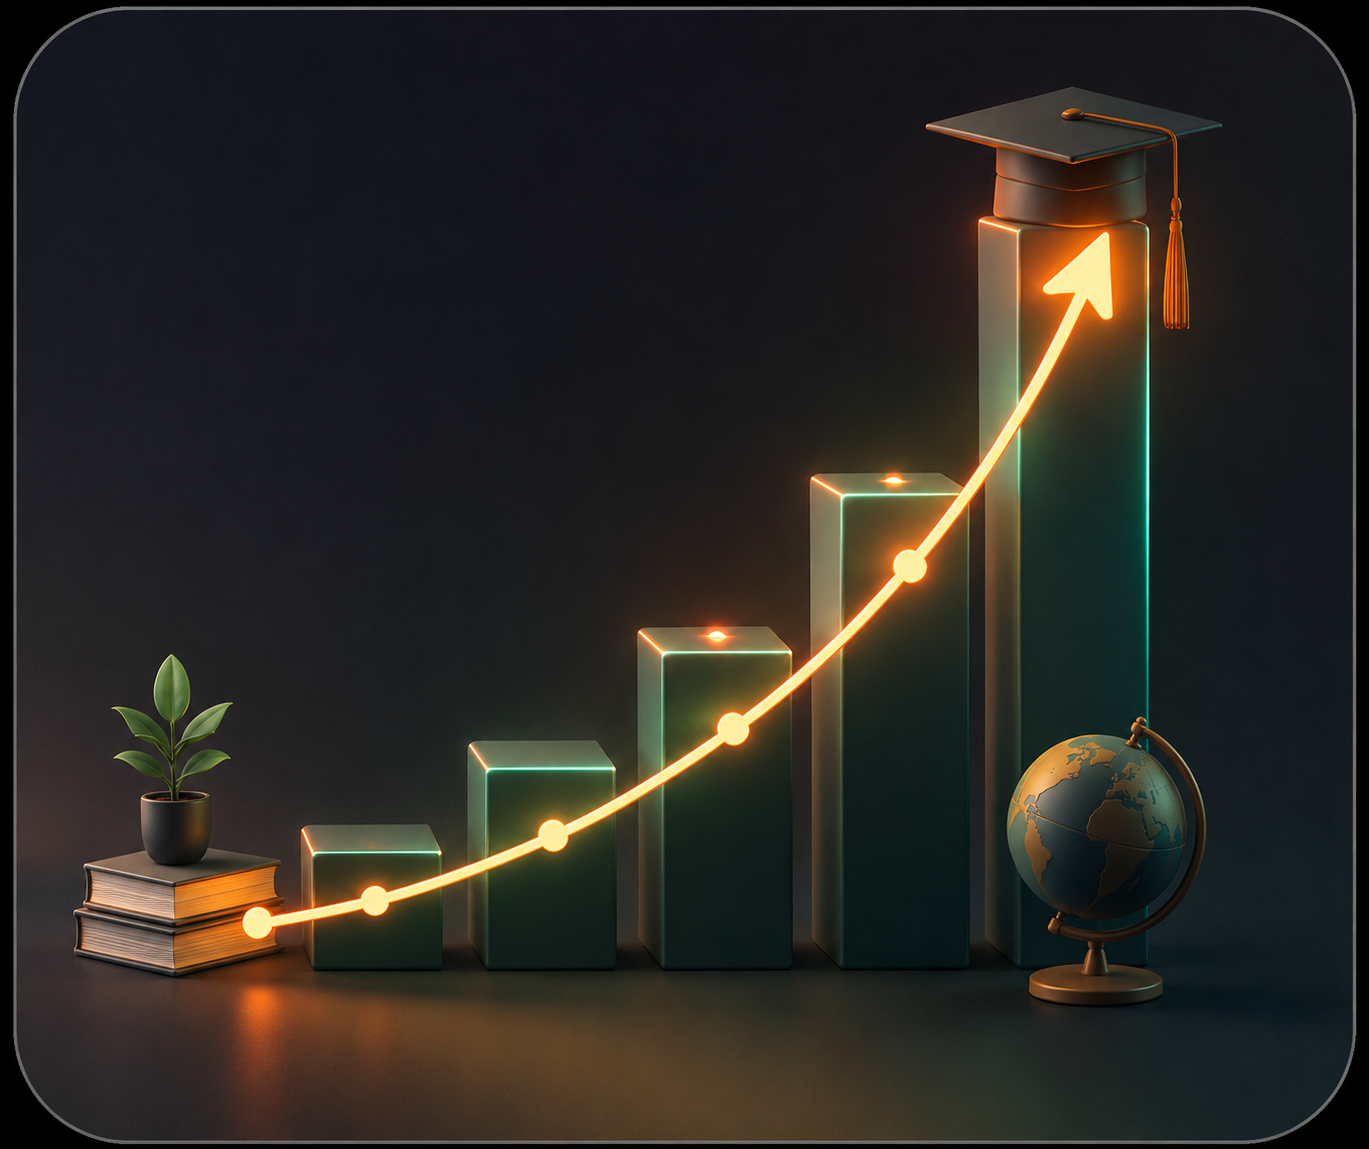
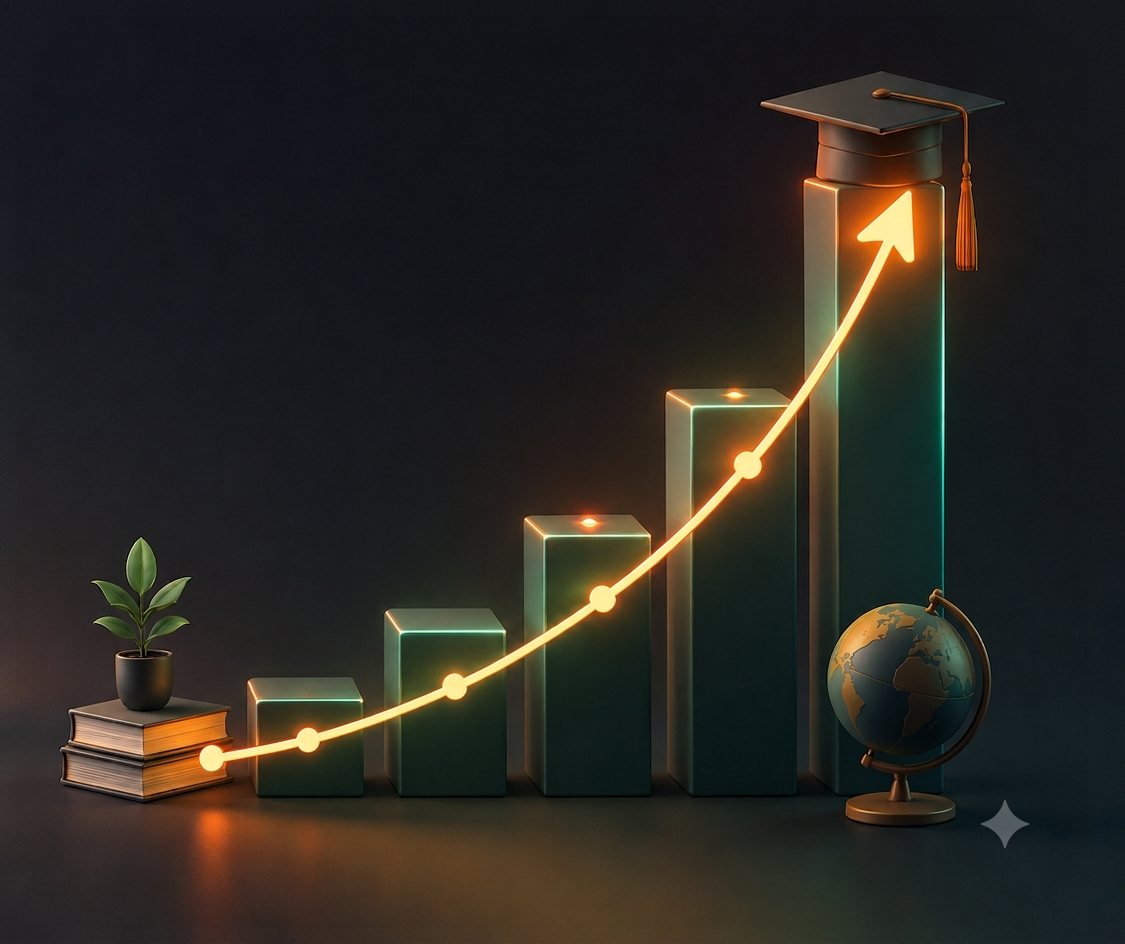
almost complete contact section

diff --git a/frontend/src/features/contact/components/ContactHero.jsx b/frontend/src/features/contact/components/ContactHero.jsx
@@ -5,7 +5,8 @@ import { buttonHoverVariant } from "../../../shared/motion/hover.motion";
 import { floatingCard, noMotion } from "../../../shared/motion/floating.motion";
 import { usePrefersReducedMotion } from "../../../shared/hooks/usePrefersReducedMotion";
 import { resolveIcon } from "../../../shared/utils/icons";
-import TransitionLink from "../../../app/providers/page-transition/TransitionLink"
+import TransitionLink from "../../../app/providers/page-transition/TransitionLink";
+import HeroImg from "../../../assets/images/common/contact.png"
 
 // import contactImg from "../../assets/images/galleryclassroom/1.jpg"
 
@@ -92,23 +93,12 @@ const ContactHero = () => {
         aria-hidden="true"
       >
         {/* Central glass panel */}
-        <div className="relative h-56 w-56 rounded-[2rem] border border-white/40 bg-white/30 shadow-2xl backdrop-blur-xl sm:h-72 sm:w-72 lg:h-80 lg:w-80">
-          <div
-            className="absolute inset-0 rounded-[2rem] opacity-40"
-            style={{
-              
-              background: 
-                "linear-gradient(135deg, #E63946 0%, #F4A261 35%, #2A9D8F 70%, #264653 100%)",
-
-              backgroundSize: "200% 200%",
-              animation: reducedMotion ? "none" : "jamiaHeroGradientShift 6s ease infinite",
-            }}
+        <div className="relative h-56 w-56 overflow-hidden rounded-[2rem] border-4 border-sky-500/35 shadow-2xl backdrop-blur-xl sm:h-72 sm:w-72 lg:h-80 lg:w-80">
+          <img
+            src={HeroImg}
+            alt=""
+            className="absolute inset-0 h-full w-full object-cover"
           />
-          <div className="absolute inset-0 flex items-center justify-center">
-            {BadgeIcon && (
-              <BadgeIcon className="h-20 w-20 text-white drop-shadow-lg sm:h-24 sm:w-24" strokeWidth={1.5} />
-            )}
-          </div>
         </div>
 
         {/* Floating achievement cards */}
@@ -119,8 +109,9 @@ const ContactHero = () => {
               key={card.id}
               variants={reducedMotion ? noMotion : floatingCard(index * 0.6)}
               animate="animate"
-              className={`absolute ${VISUAL_CARD_POSITIONS[index]} flex max-w-[8.5rem] items-center gap-1.5 rounded-2xl border border-white/50 bg-white/70 px-3 py-2 shadow-lg backdrop-blur-md sm:max-w-none sm:gap-2 sm:px-4 sm:py-2.5`}
+              className={`absolute ${VISUAL_CARD_POSITIONS[index]} flex max-w-[8.5rem]  items-center gap-1.5 rounded-2xl  bg-white/70 px-3 py-2 shadow-lg backdrop-blur-md sm:max-w-none sm:gap-2 sm:px-4 sm:py-2.5`}
             >
+
               {Icon && (
                 <Icon
                   className="h-3.5 w-3.5 shrink-0 sm:h-4 sm:w-4"

diff --git a/frontend/src/features/contact/data/contact.data.js b/frontend/src/features/contact/data/contact.data.js
@@ -22,45 +22,6 @@ export const contactHero = {
   ],
 };
 
-// ---------------- CONTACT INFO CARDS ----------------
-export const contactInfoCards = [
-  {
-    id: "admission-support",
-    icon: "GraduationCap",
-    title: "Admission Support",
-    description: "Get guidance on courses, eligibility and enrollment process.",
-    actions: [
-      { type: "call", label: "Call Admissions", value: "+919876543210", href: "tel:+919876543210" },
-      { type: "whatsapp", label: "WhatsApp Us", value: "+919876543210", href: "https://wa.me/919876543210" },
-    ],
-    ariaLabel: "Admission support contact card",
-  },
-  {
-    id: "call-us",
-    icon: "Phone",
-    title: "Call Us",
-    description: "Reach our team directly for quick assistance.",
-    numbers: [
-      { id: "primary-number", label: "Primary", value: "+91 98765 43210", raw: "+919876543210" },
-      { id: "secondary-number", label: "Alternate", value: "+91 91234 56789", raw: "+919123456789" },
-    ],
-    actions: [
-      { type: "call", label: "Call Now", href: "tel:+919876543210" },
-      { type: "copy", label: "Copy Number" },
-    ],
-    ariaLabel: "Call us contact card",
-  },
-  {
-    id: "visit-campus",
-    icon: "MapPin",
-    title: "Visit Campus",
-    description: "Jamia Academy Campus, Sector 21, Gurugram, Haryana, India",
-    actions: [
-      { type: "map", label: "Get Directions", href: "https://maps.google.com/?q=Jamia+Academy+Gurugram" },
-    ],
-    ariaLabel: "Visit campus contact card",
-  },
-];
 
 // ---------------- SOCIAL CONNECT ----------------
 export const socialConnect = {
